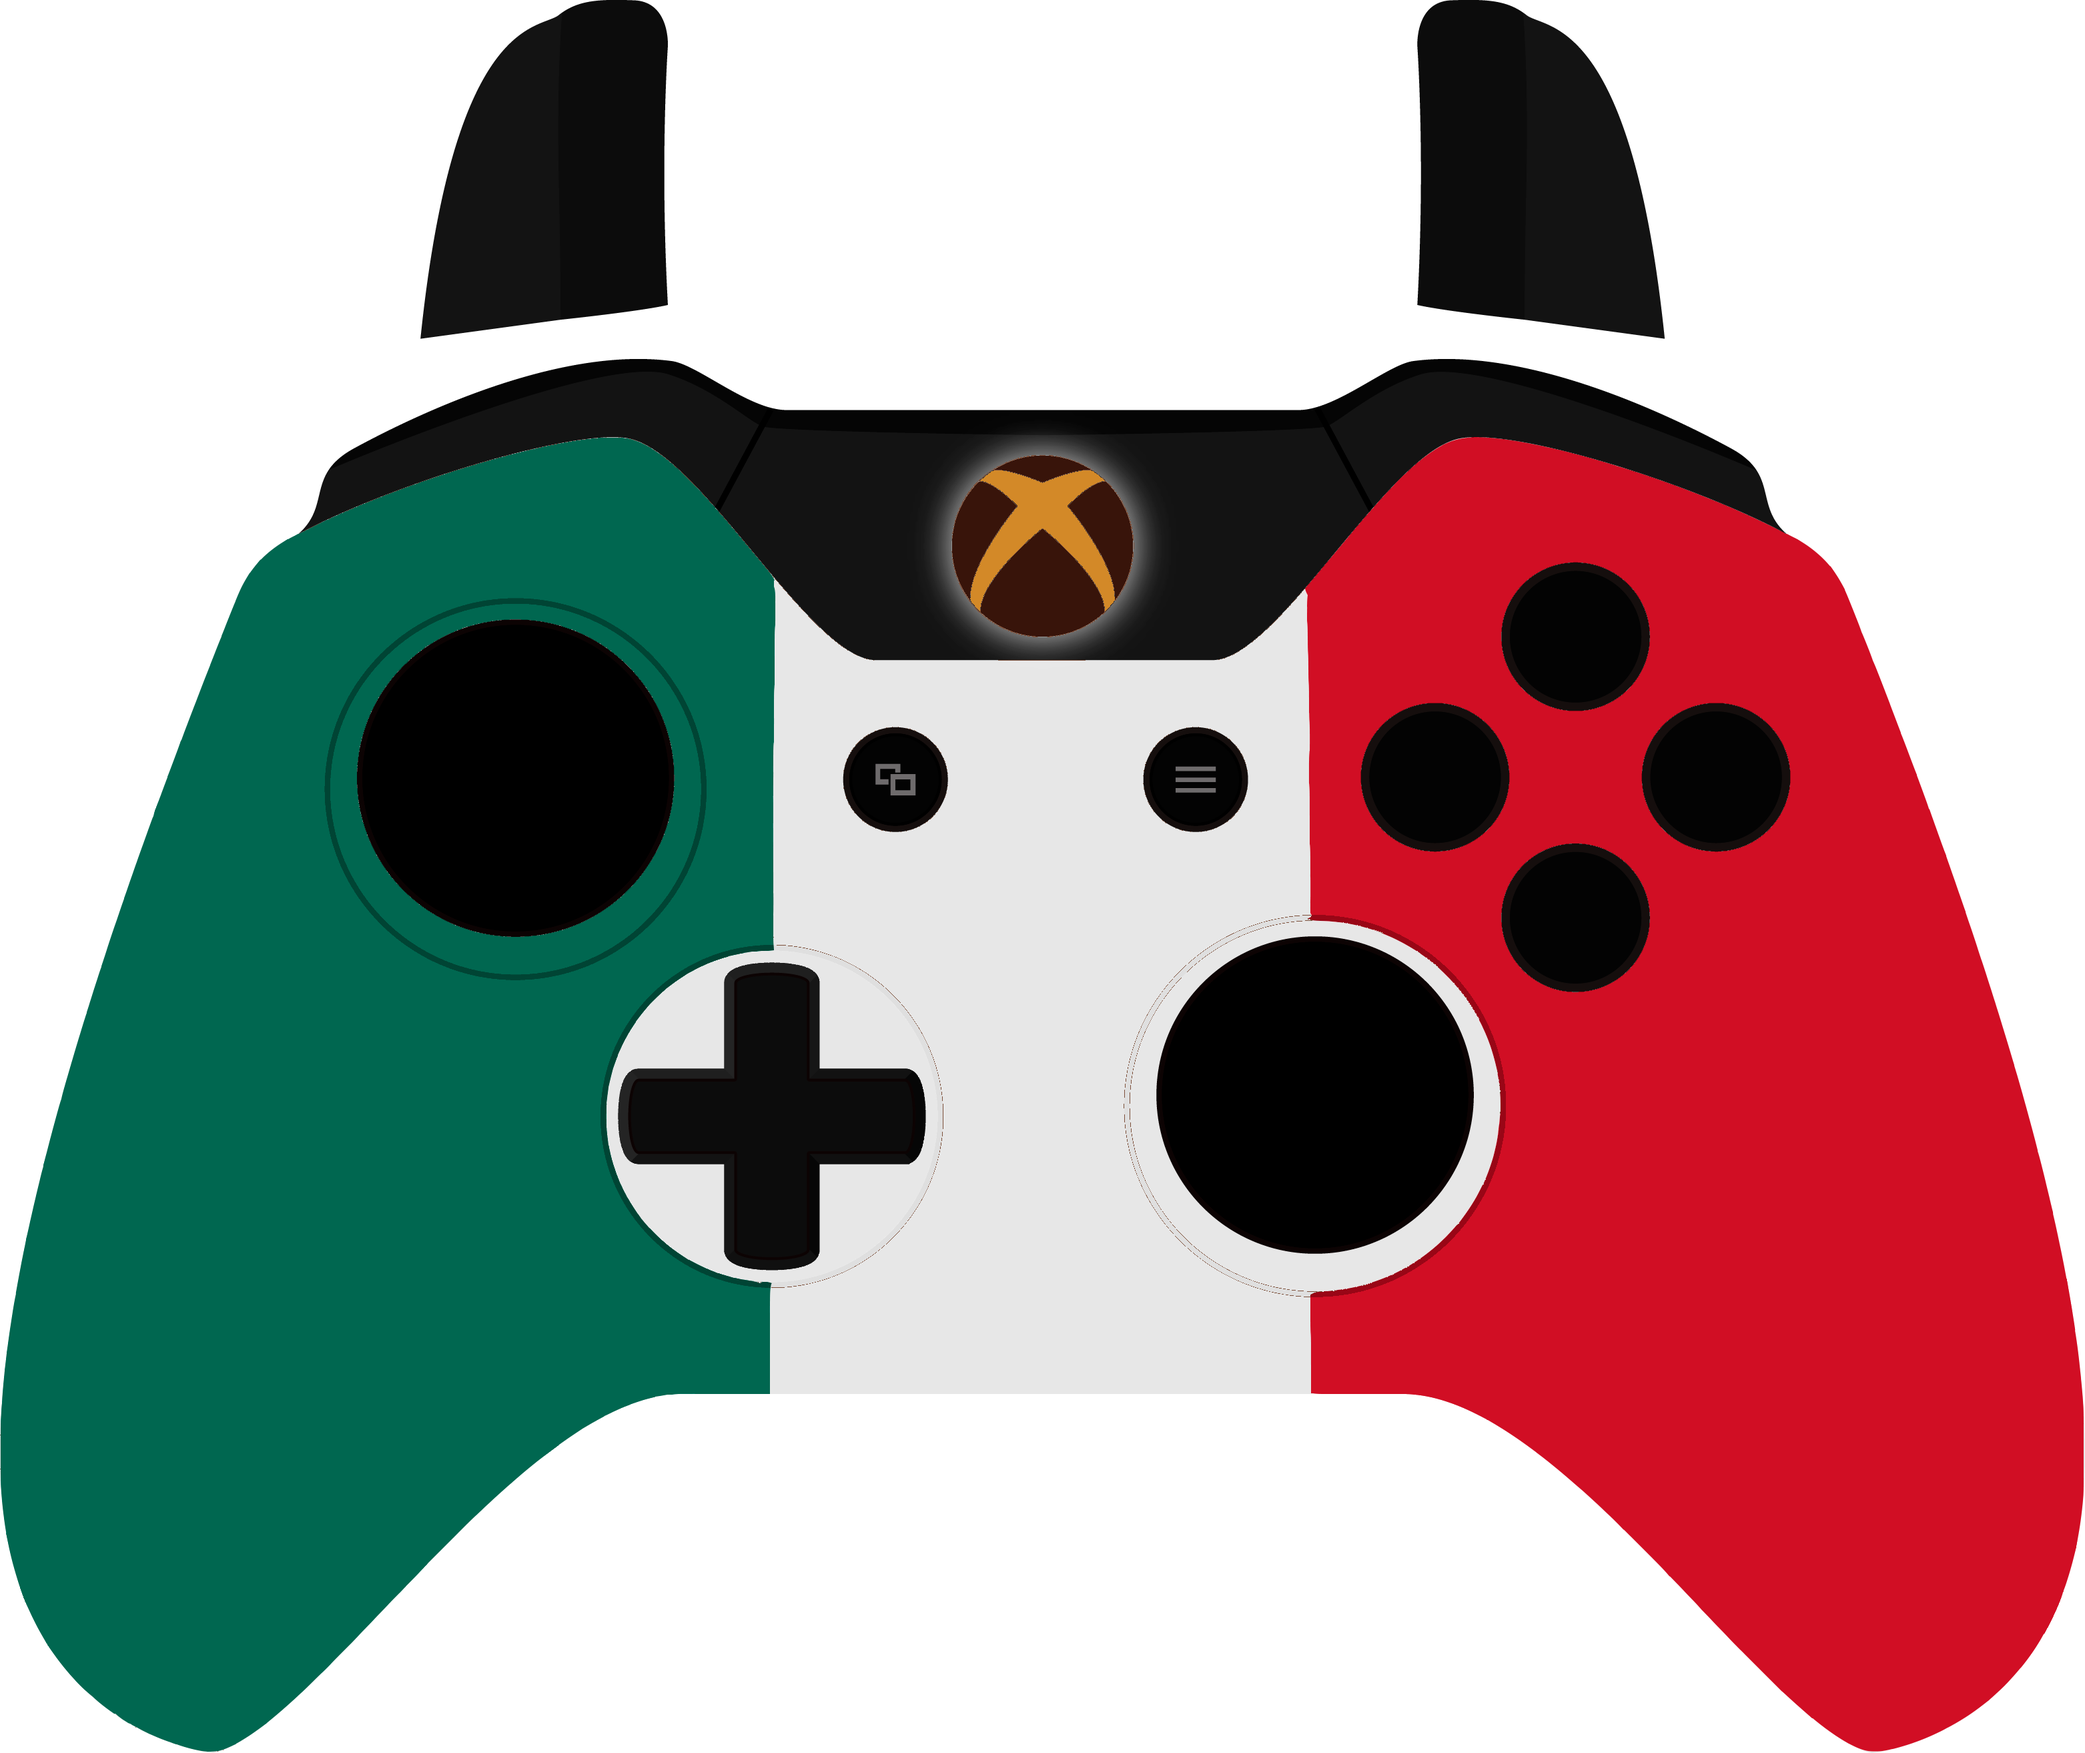
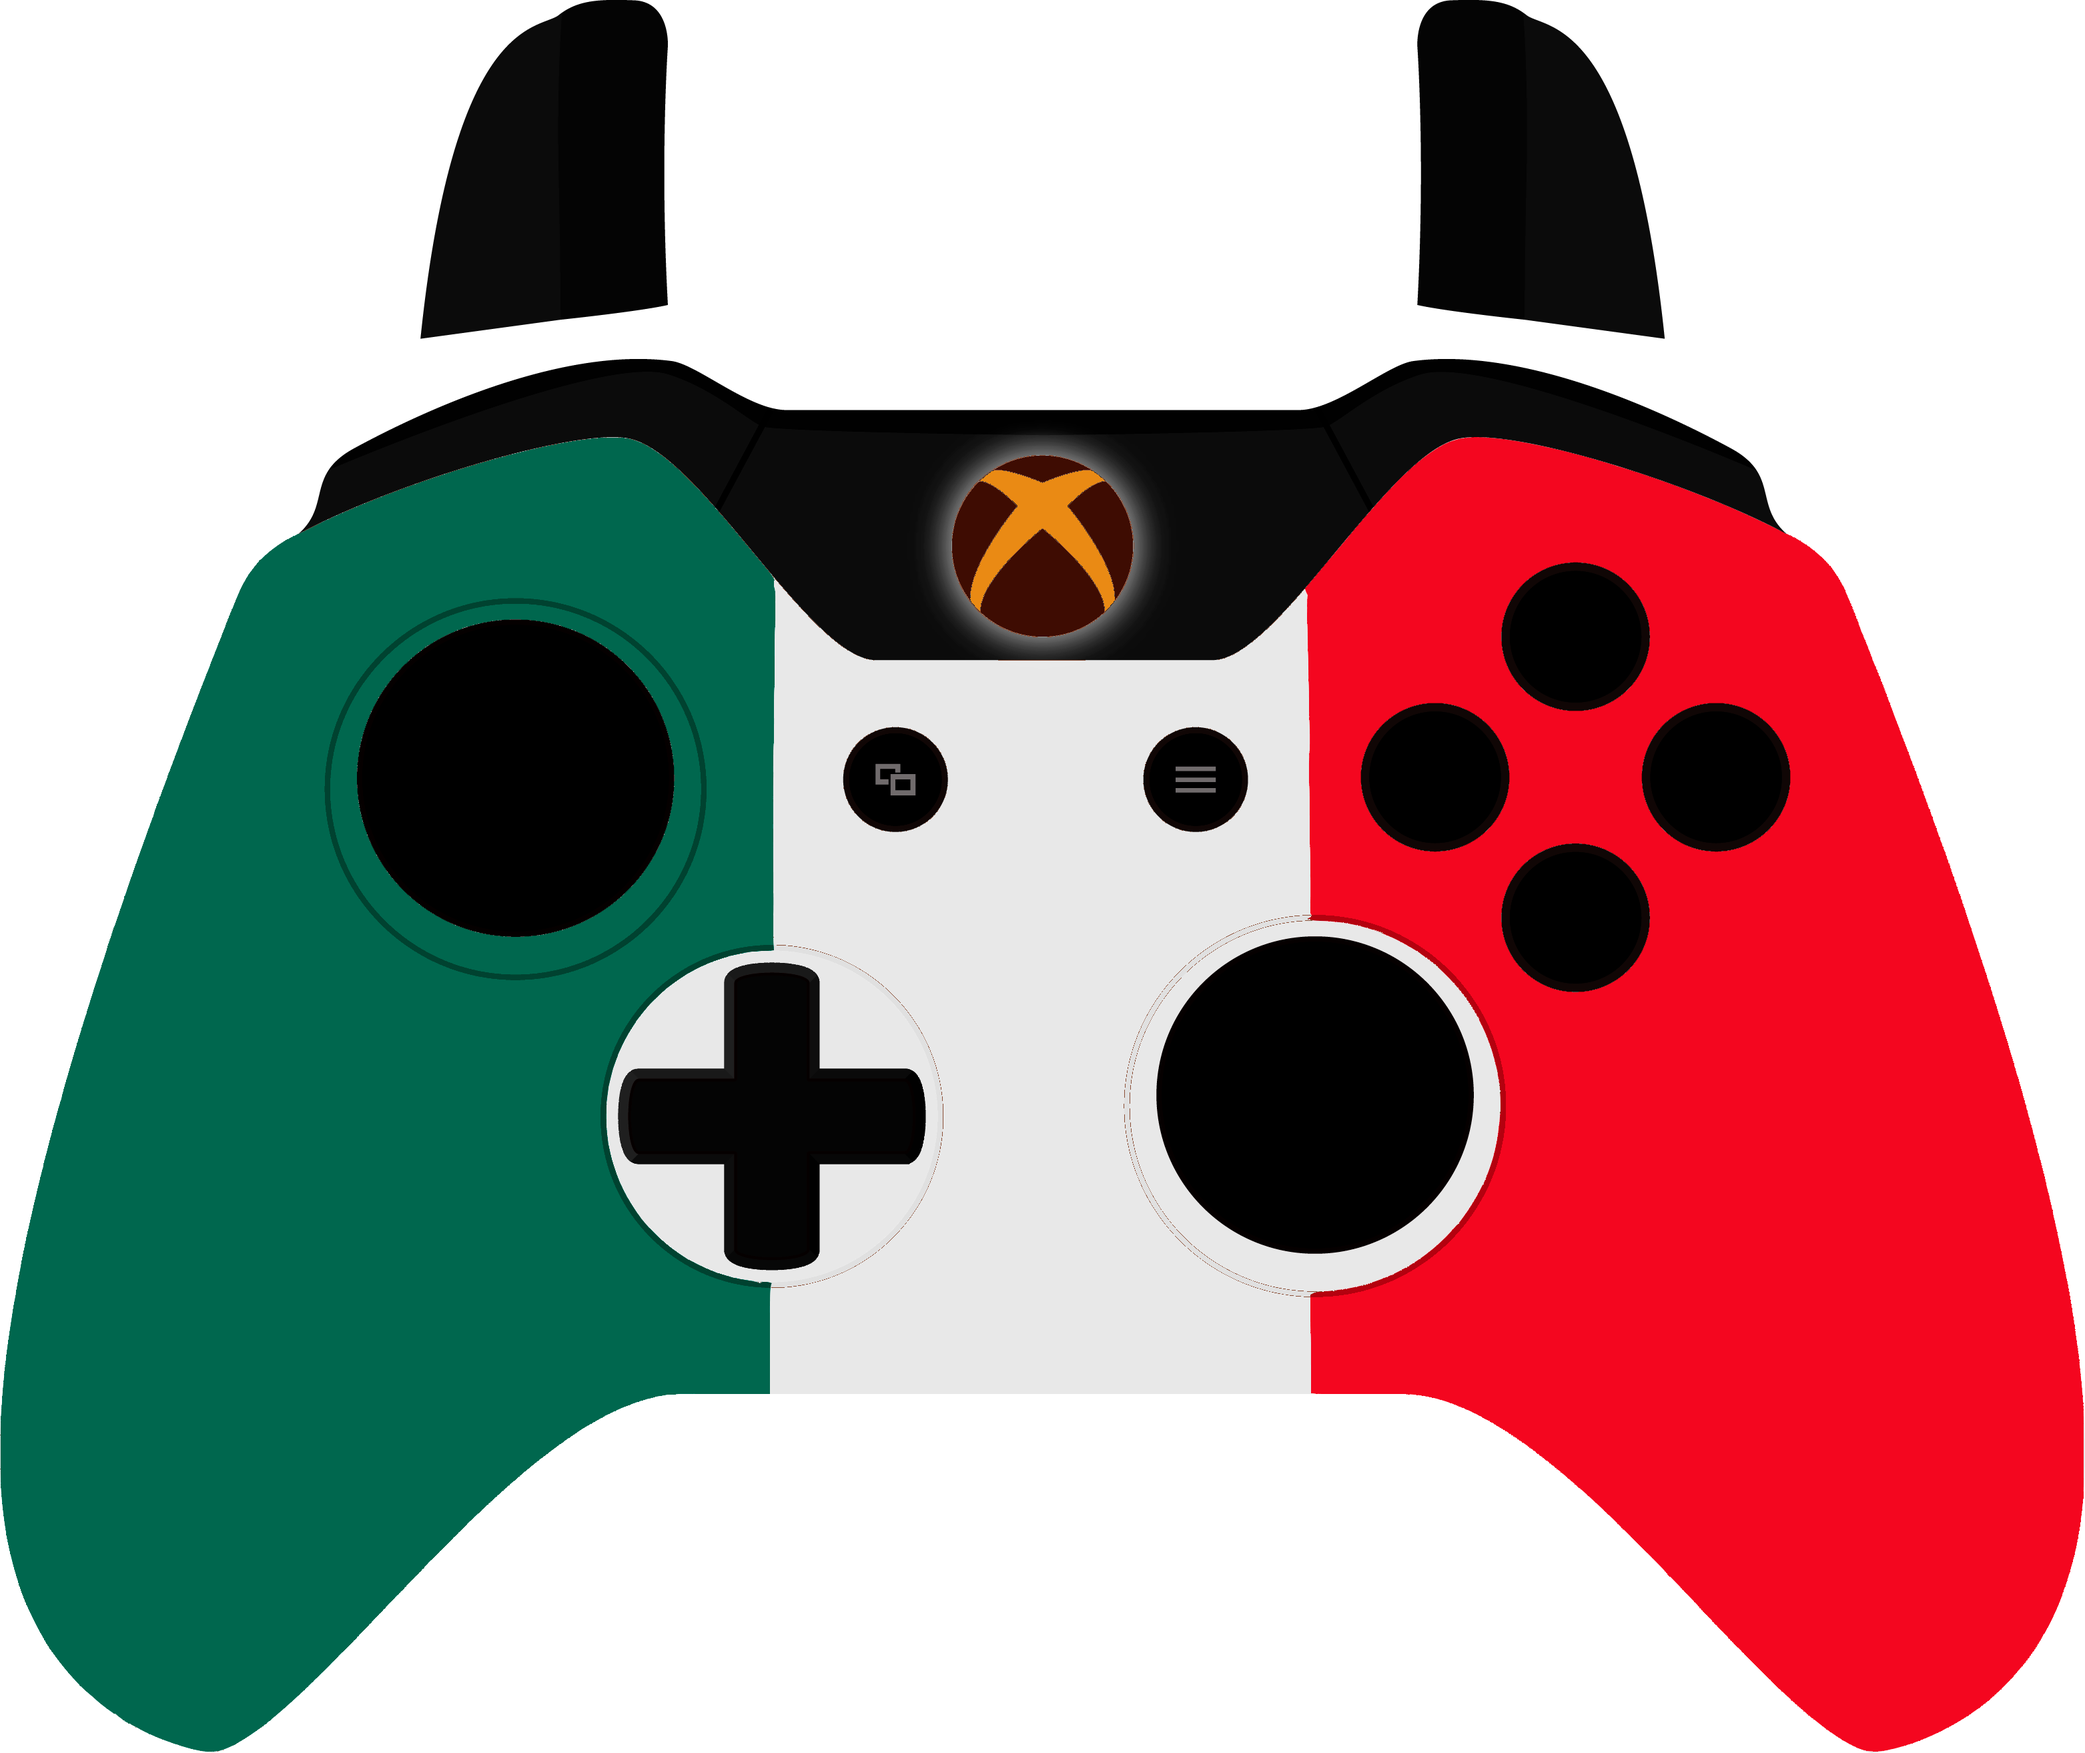
update colors

Changed region(s): [[0.6208, 0.2497, 1.0, 0.9989]]

diff --git a/XboxOne/xboxmx.css b/XboxOne/xboxmx.css
@@ -11,3 +11,12 @@ div#gamepad-0 {
     height: 83px;
     width: 83px;
 }
+
+.xbox .stick.left {
+    position: absolute;
+    background: url(https://raw.githubusercontent.com/samuelzyx/GamePadViewer/main/XboxOne/images/stickgreenleft.png);
+    background-position: -85px 0;
+    background-size: 168px;
+    height: 83px;
+    width: 83px;
+}
